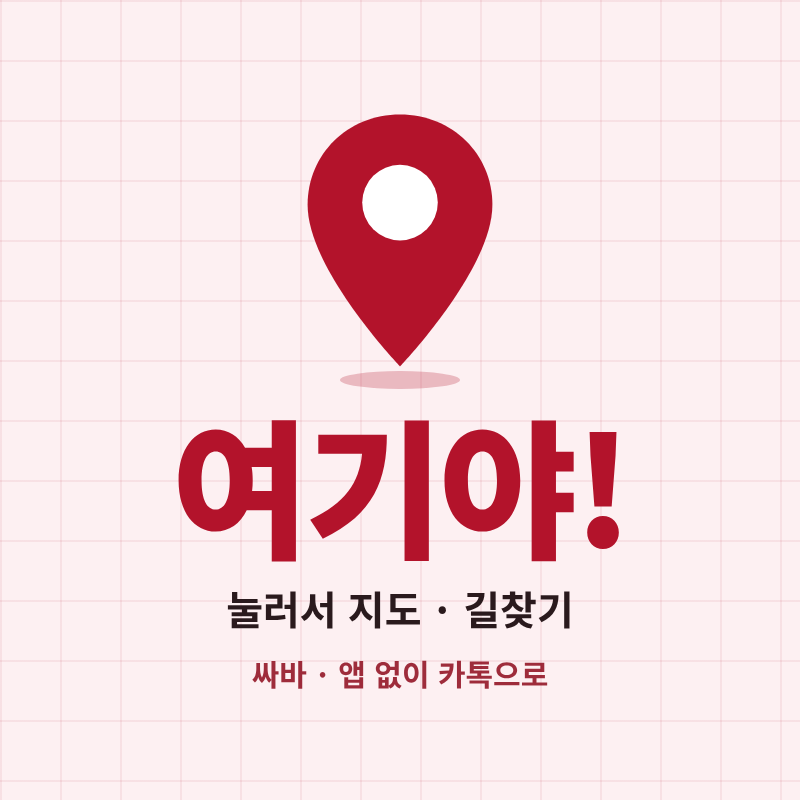
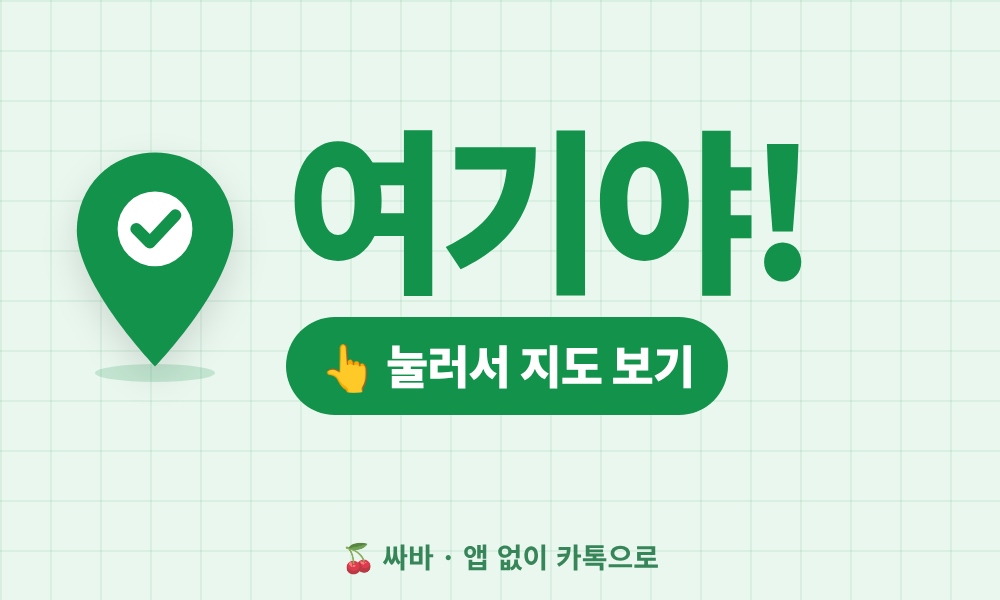
어디야/여기야 카톡 카드 새 디자인: 가로형 사진, 여기야는 초록, 사람 말투 제목
Claude-Session: https://claude.ai/code/session_01Q9nWZoJjakgUt7PhukGEoe

diff --git a/eodiya/index.html b/eodiya/index.html
@@ -298,8 +298,9 @@
   // 카톡으로 보내기: 카카오 공유가 안 되면 휴대폰 공유창 → 링크 복사
   function shareKakao(title, desc, url) {
     var play = /놀자/.test(title);
-    var img = IMG_BASE + (play ? 'eodiya-play.png?v=4' : /여기/.test(title) ? 'eodiya-here.png?v=4' : 'eodiya-ask.png?v=4');
-    window.SsakaShare({ title: title, description: desc, imageUrl: img, imageWidth: 800, imageHeight: 800, url: url, buttonTitle: play ? '좋아! 갈게' : /여기/.test(title) ? '지도 보기' : '나의 위치 알리기', installTitle: play ? '싸바 놀자 설치' : '싸바 여기야 설치', installUrl: BASE + '?install=1' });
+    var isHere = !play && /여기/.test(title);
+    var img = IMG_BASE + (play ? 'eodiya-play.png?v=4' : isHere ? 'eodiya-here.png?v=5' : 'eodiya-ask.png?v=5');
+    window.SsakaShare({ title: title, description: desc, imageUrl: img, imageWidth: play ? 800 : 1000, imageHeight: play ? 800 : 600, url: url, buttonTitle: play ? '좋아! 갈게' : /여기/.test(title) ? '지도 보기' : '나의 위치 알리기', installTitle: play ? '싸바 놀자 설치' : '싸바 여기야 설치', installUrl: BASE + '?install=1' });
   }
   function shareSms(title, desc, url, phone) {
     var body = title + (desc ? '\n' + desc : '') + '\n' + url;
@@ -348,10 +349,11 @@
     // 답장: 큰 그림이 붙은 카톡 카드로 보냄 (번호가 있으면 문자)
     function reply(o) {
       var name = myName();
-      var title = (name ? name + ': ' : '') + o.title;
+      var title = o.title === '여기야!' ? (name ? name + '님이 여기 있대요' : '여기야!') : (name ? name + ': ' : '') + o.title;
       var url = o.url || BASE;
       if (card.phone) { location.href = sms(card.phone, title + (o.desc ? '\n' + o.desc : '') + '\n' + url); return; }
-      window.SsakaShare({ title: title, description: o.desc || '', imageUrl: IMG_BASE + o.img, imageWidth: 800, imageHeight: 800, url: url,
+      var wide = /eodiya-(ask|here)\.png/.test(o.img);
+      window.SsakaShare({ title: title, description: o.desc || '', imageUrl: IMG_BASE + o.img, imageWidth: wide ? 1000 : 800, imageHeight: wide ? 600 : 800, url: url,
         buttonTitle: o.btn || '열어 보기', installTitle: '싸바 설치하기', installUrl: BASE + '?install=1' });
     }
     if (window.SsakaInstall) { SsakaInstall.chip($('viewAsk'), '나도 싸바 설치하기'); SsakaInstall.chip($('viewCome'), '나도 싸바 설치하기'); SsakaInstall.chip($('viewPlay'), '나도 싸바 설치하기'); }
@@ -445,14 +447,14 @@
         toast('위치를 확인하는 중…');
         getPos().then(function (pos) {
           var back = BASE + '?d=' + SsakaCodec.encode({ m: 'come', here: 1, t: Date.now(), from: myName(), place: { name: '', lat: pos.lat, lng: pos.lng } });
-          reply({ title: '여기야!', desc: '지금 내 위치 · 눌러서 지도·길찾기', img: 'eodiya-here.png?v=4', btn: '지도 보기', url: back });
+          reply({ title: '여기야!', desc: '사진을 누르면 지도가 열려요', img: 'eodiya-here.png?v=5', btn: '지도 보기', url: back });
         }, function (e) { toast(e.message + ' — 아래에 직접 써서 보낼 수 있어요'); $('hereText').focus(); });
       });
       $('hereSend').addEventListener('click', function () {
         var t = $('hereText').value.trim();
         if (!t) { toast('어디인지 적어주세요'); $('hereText').focus(); return; }
         var back = BASE + '?d=' + SsakaCodec.encode({ m: 'come', here: 1, t: Date.now(), from: myName(), place: { name: t } });
-        reply({ title: '여기야!', desc: '📍 ' + t + ' · 눌러서 지도·길찾기', img: 'eodiya-here.png?v=4', btn: '지도 보기', url: back });
+        reply({ title: '여기야!', desc: '📍 ' + t + ' · 사진을 누르면 지도가 열려요', img: 'eodiya-here.png?v=5', btn: '지도 보기', url: back });
       });
       playSound(card.sound || 'where');
     }
@@ -560,8 +562,9 @@
       d.memo = $('memo').value.trim();
     }
     var url = BASE + '?d=' + SsakaCodec.encode(d);
-    var title = mode === 'come' ? (gpsNow ? from + ': 여기야!' : from + ': 여기서 만나!') : from + ': 어디야?';
-    var desc = mode === 'come' ? ((d.place.name || (gpsNow ? '지금 내 위치' : '만날 곳')) + (d.at && !gpsNow ? ' · ' + clockText(d.at) : '')) : '눌러서 "여기야!" 답장하기';
+    var nim = from ? from + '님이 ' : '';
+    var title = mode === 'come' ? (gpsNow ? (from ? nim + '여기 있대요' : '여기야!') : (from ? nim + '여기서 만나재요' : '여기서 만나!')) : (from ? nim + '어디냐고 물어요' : '어디야?');
+    var desc = mode === 'come' ? ((d.place.name || (gpsNow ? '사진을 누르면 지도가 열려요' : '만날 곳')) + (d.at && !gpsNow ? ' · ' + clockText(d.at) : '')) : '사진을 누르면 바로 답장돼요';
     return { url: url, title: title, desc: desc, phone: phone };
   }
   $('sendKakao').addEventListener('click', function () { var b = build(); if (b) shareKakao(b.title, b.desc, b.url); });

diff --git a/js/share.js b/js/share.js
@@ -65,7 +65,7 @@
     var c = cardInfo(extra);
     // 카톡 말풍선은 가운데를 정사각형에 가깝게 잘라 보여줘서, 기본 공유 그림은 정사각형으로 바꿔 보냄
     if (/ssaka-share\.png/.test(c.imageUrl || '')) { c.imageUrl = c.imageUrl.replace(/ssaka-share\.png(\?[^#]*)?/, 'ssaka-square.png?v=1'); c.imageWidth = 800; c.imageHeight = 800; }
-    if (/eodiya-(ask|here)\.png/.test(c.imageUrl || '')) { c.imageWidth = 800; c.imageHeight = 800; }
+    if (/eodiya-(ask|here)\.png/.test(c.imageUrl || '')) { c.imageWidth = 1000; c.imageHeight = 600; }
     loadKakao().then(function (Kakao) {
       var content = {
         title: c.title,

diff --git a/sw.js b/sw.js
@@ -1,5 +1,5 @@
 /* 싸바 서비스워커 — 새 파일을 먼저 받고(network-first), 인터넷이 약하면 저장해 둔 화면을 보여줌 */
-var CACHE = 'sava-v12';
+var CACHE = 'sava-v13';
 var SHELL = ['./', './app/', './eodiya/', './lucky/', './shoot/', './fly/', './pool/', './make/', './c/', './css/brand.css', './css/sk.css', './css/sk-world.css',
   './js/codec.js', './js/store.js', './js/designs.js', './js/render.js', './js/share.js', './js/install.js', './js/sound.js',
   './img/icon-192.png?v=2', './img/cherry.svg', './img/cherry-dance-anim.svg', './manifest.webmanifest'];

diff --git a/js/install.js b/js/install.js
@@ -123,7 +123,7 @@
     try { navigator.serviceWorker.register(SELF.replace(/js\/install\.js.*$/, 'sw.js')).catch(function () {}); } catch (e) {}
   }
   // ---------- 최신 버전 업데이트 ----------
-  var VER = '2026.11.09-27'; // 올릴 때마다 version.json 과 같이 올림
+  var VER = '2026.11.09-28'; // 올릴 때마다 version.json 과 같이 올림
   function hardUpdate() {
     var jobs = [];
     try { if (window.caches) jobs.push(caches.keys().then(function (ks) { return Promise.all(ks.map(function (k) { return caches.delete(k); })); })); } catch (e) {}
